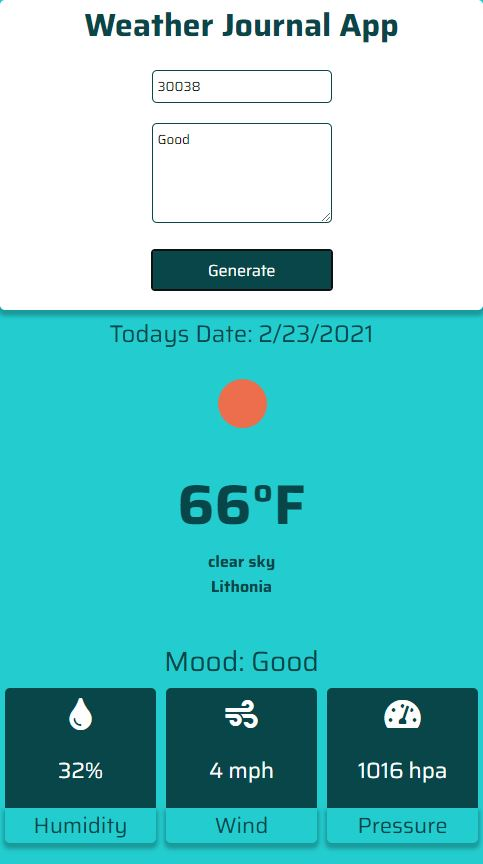
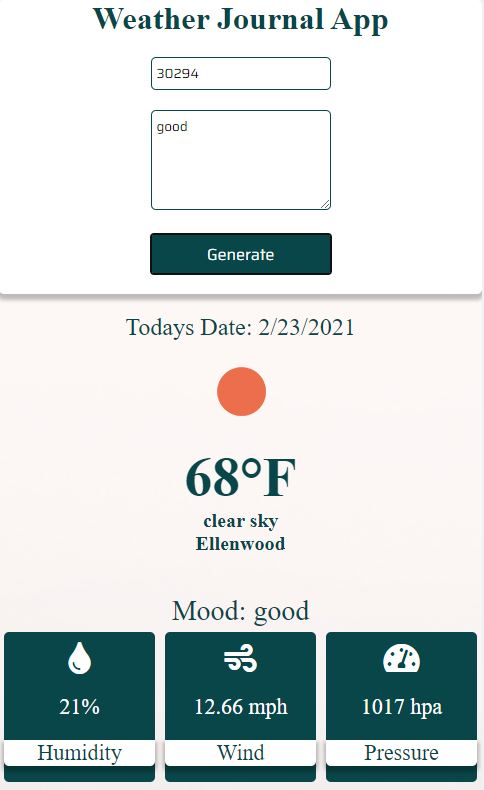
Change background color of data type background

diff --git a/website/css/main.css b/website/css/main.css
@@ -147,7 +147,7 @@ textarea {
 }
 
 .type {
-    background-color: var(--light-blue);
+    background-color: white;
     border-radius: 0 0 5px 5px;
     box-shadow: 0px 4px 4px 2px rgba(0, 0, 0, 0.25);
     color: var(--dark);
